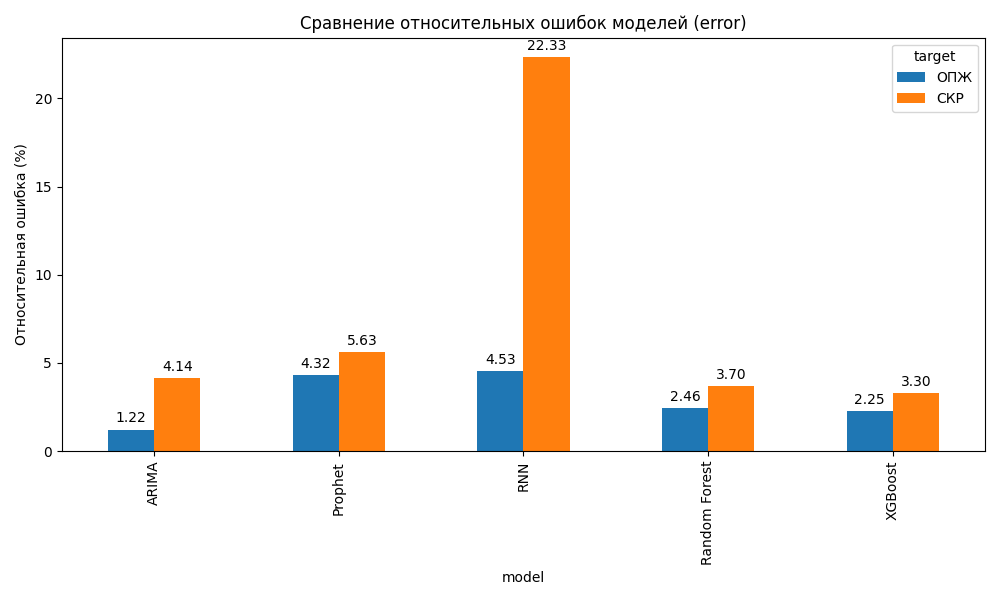
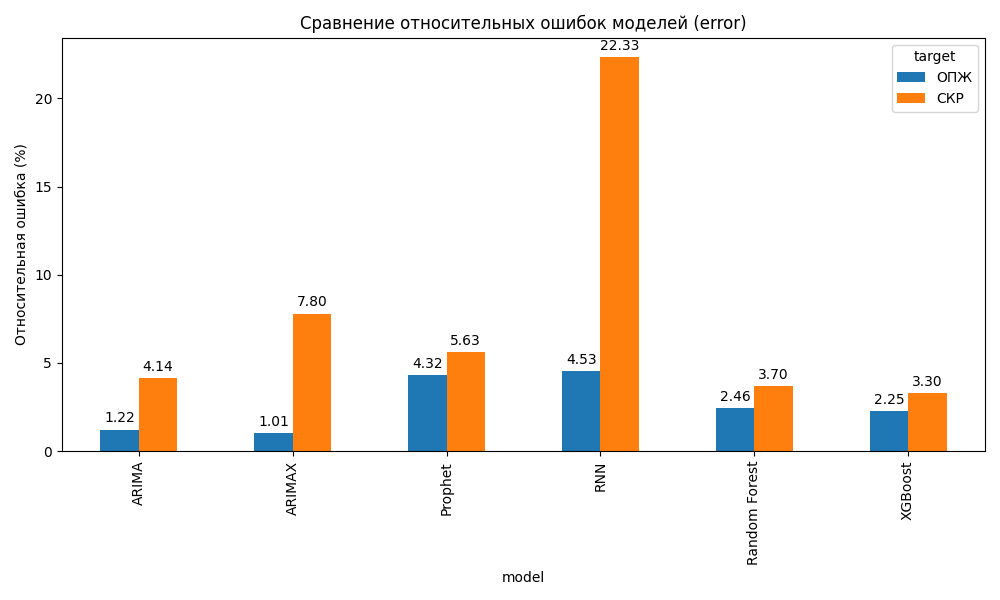
Auto update metrics [ci skip]

diff --git a/notebooks/Readme.md b/notebooks/Readme.md
@@ -39,6 +39,46 @@ R²: -0.1932
 {"RMSE": 0.880369612552525, "MAE": 0.7062552941176471, "R2": 0.8856220471199727, "relative_error": 1.2154073814251432, "relative_average": 3.9255724713872944}
 ```
 
+## Модель: ARIMAX — СКР
+```
+====================================================================================================
+Отклонение таргета относительно прогноза:
+RMSE: 0.1120
+MAE: 0.0783
+R²: 0.8347
+Средний СКР: 1.4365
+Относительная ошибка: 7.80%
+====================================================================================================
+Отклонение таргета относительно СРЕДНЕГО:
+RMSE: 0.3311
+MAE: 0.2689
+R²: -0.4436
+Средний СКР: 1.4365
+Относительная ошибка: 23.05%
+====================================================================================================
+{"RMSE": 0.11204480878858507, "MAE": 0.07825529411764705, "R2": 0.8346619440997531, "relative_error": 7.800007163824511, "relative_average": 23.04800988295015}
+```
+
+## Модель: ARIMAX — ОПЖ
+```
+====================================================================================================
+Отклонение таргета относительно прогноза:
+RMSE: 0.7308
+MAE: 0.5287
+R²: 0.9212
+Средний ОПЖ: 72.4341
+Относительная ошибка: 1.01%
+====================================================================================================
+Отклонение таргета относительно СРЕДНЕГО:
+RMSE: 2.8435
+MAE: 2.1326
+R²: -0.1932
+Средний ОПЖ: 72.4341
+Относительная ошибка: 3.93%
+====================================================================================================
+{"RMSE": 0.7307933422376134, "MAE": 0.5286717647058815, "R2": 0.9211863581243357, "relative_error": 1.008907633552553, "relative_average": 3.9255724713872944}
+```
+
 ## Модель: Prophet — СКР
 ```
 ====================================================================================================
